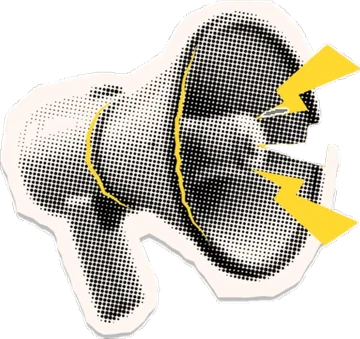
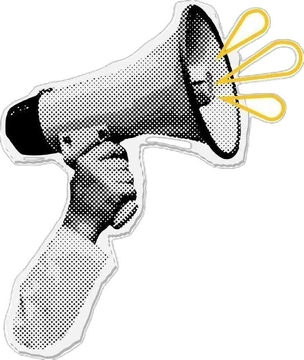
Level test result: one bulb sticker instead of per-level stickers; new megaphone
- The result card shows a single light bulb sticker for every level
  (supplied artwork, baked-in checkerboard removed); the A1-C2 stickers go.
- The discount banner uses the new megaphone cut-out.

Claude-Session: https://claude.ai/code/session_01KxRcMe7cREbEiFCxXidQcf

diff --git a/academor/templates/test-take.html b/academor/templates/test-take.html
@@ -33,11 +33,9 @@
                     <div class="wow fadeInUp" data-wow-delay="0.1s">
                         <section class="ltr-card" aria-labelledby="ltr-heading">
                             <div class="ltr-card__top">
-                                {% if current_cefr %}
-                                <div class="ltr-card__sticker">
-                                    <img src="{% static 'assets/img/level-test/levels/'|add:current_cefr.code|lower|add:'.webp' %}" alt="{{ current_cefr.code }} · {{ current_cefr.name }}" width="440" height="400" decoding="async">
+                                <div class="ltr-card__sticker" aria-hidden="true">
+                                    <img src="{% static 'assets/img/level-test/result-bulb.webp' %}" alt="" width="420" height="391" decoding="async">
                                 </div>
-                                {% endif %}
                                 <div class="ltr-card__main">
                                     <p class="ltr-card__eyebrow">{% trans "Level test result" %} · {{ result.created_at|date:"d.m.Y" }}</p>
                                     <h2 id="ltr-heading" class="ltr-card__title">

diff --git a/academor/projects/static/assets/css/level-test.css b/academor/projects/static/assets/css/level-test.css
@@ -186,7 +186,6 @@
     max-width: 260px;
     height: auto;
     rotate: -4deg;
-    filter: drop-shadow(0 12px 20px rgba(0, 49, 61, 0.18));
     animation: ltrStickerIn 0.7s cubic-bezier(0.34, 1.56, 0.64, 1) 0.15s both, ltrFloat 6s ease-in-out 0.9s infinite;
 }
 @keyframes ltrStickerIn { from { scale: 0.6; opacity: 0; } to { scale: 1; opacity: 1; } }
